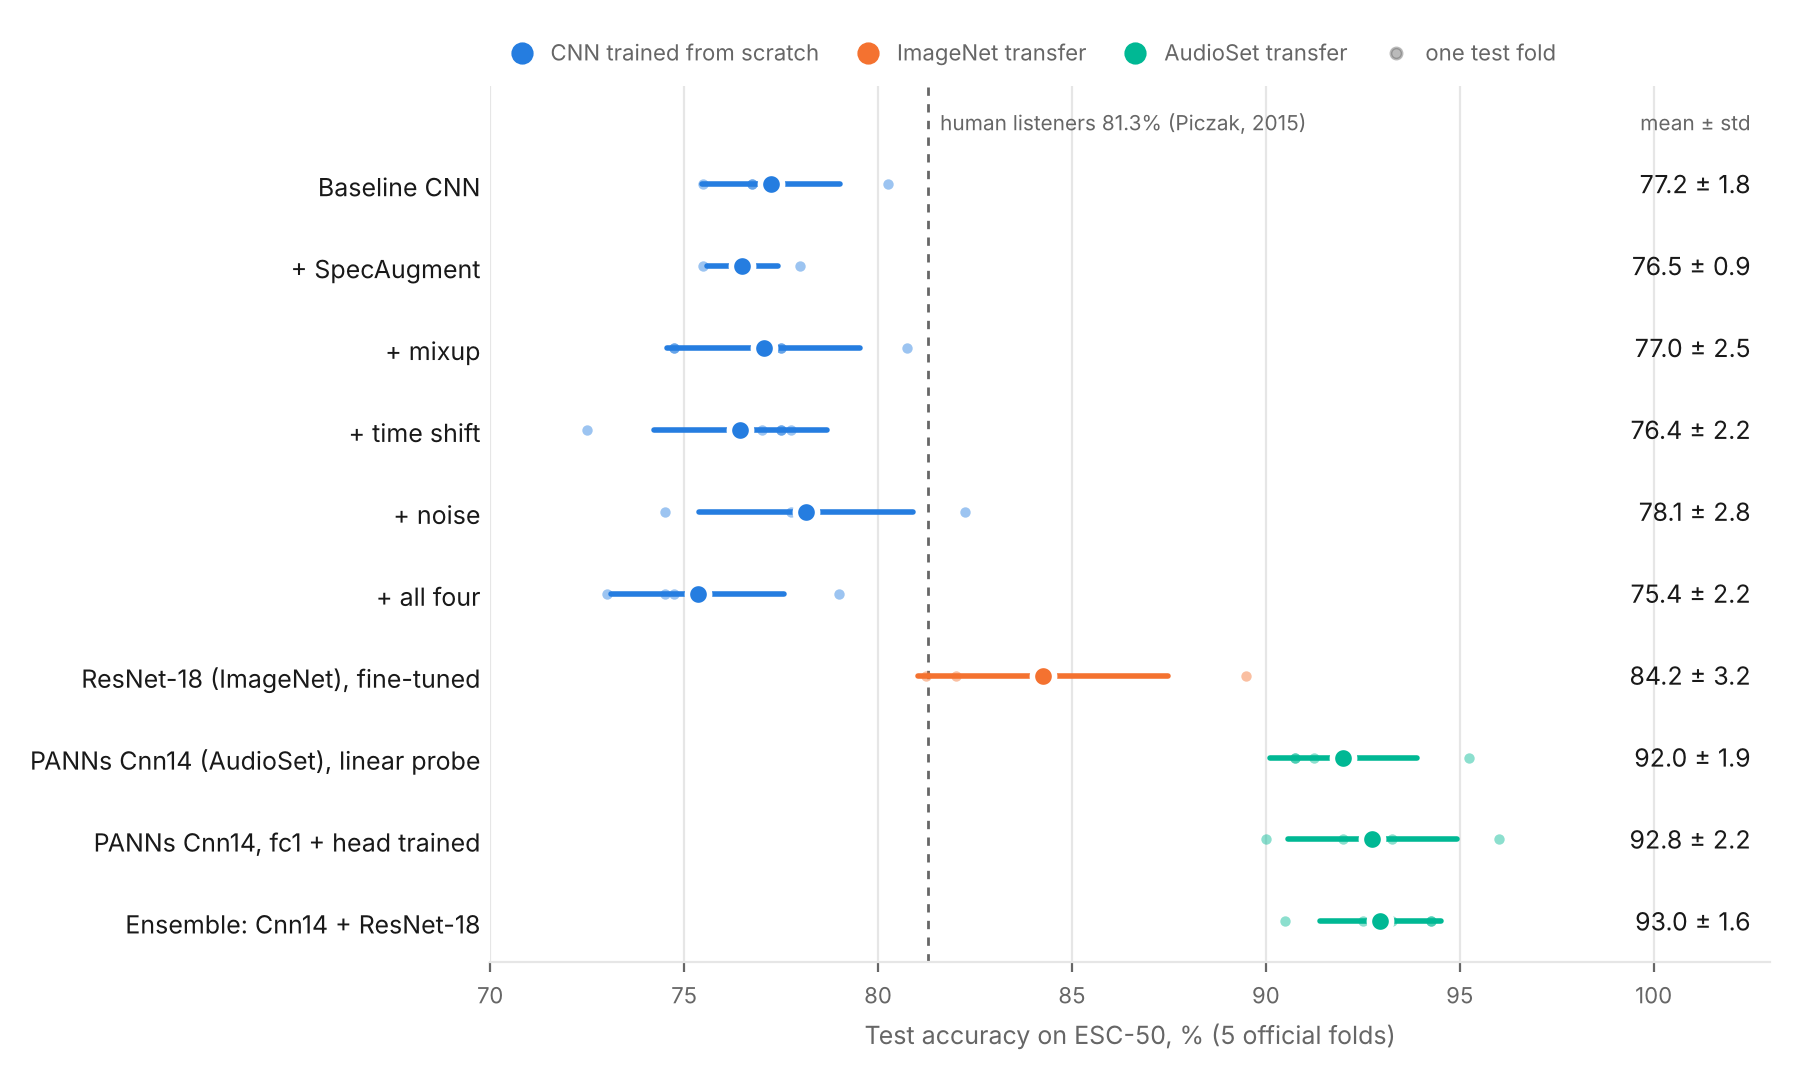
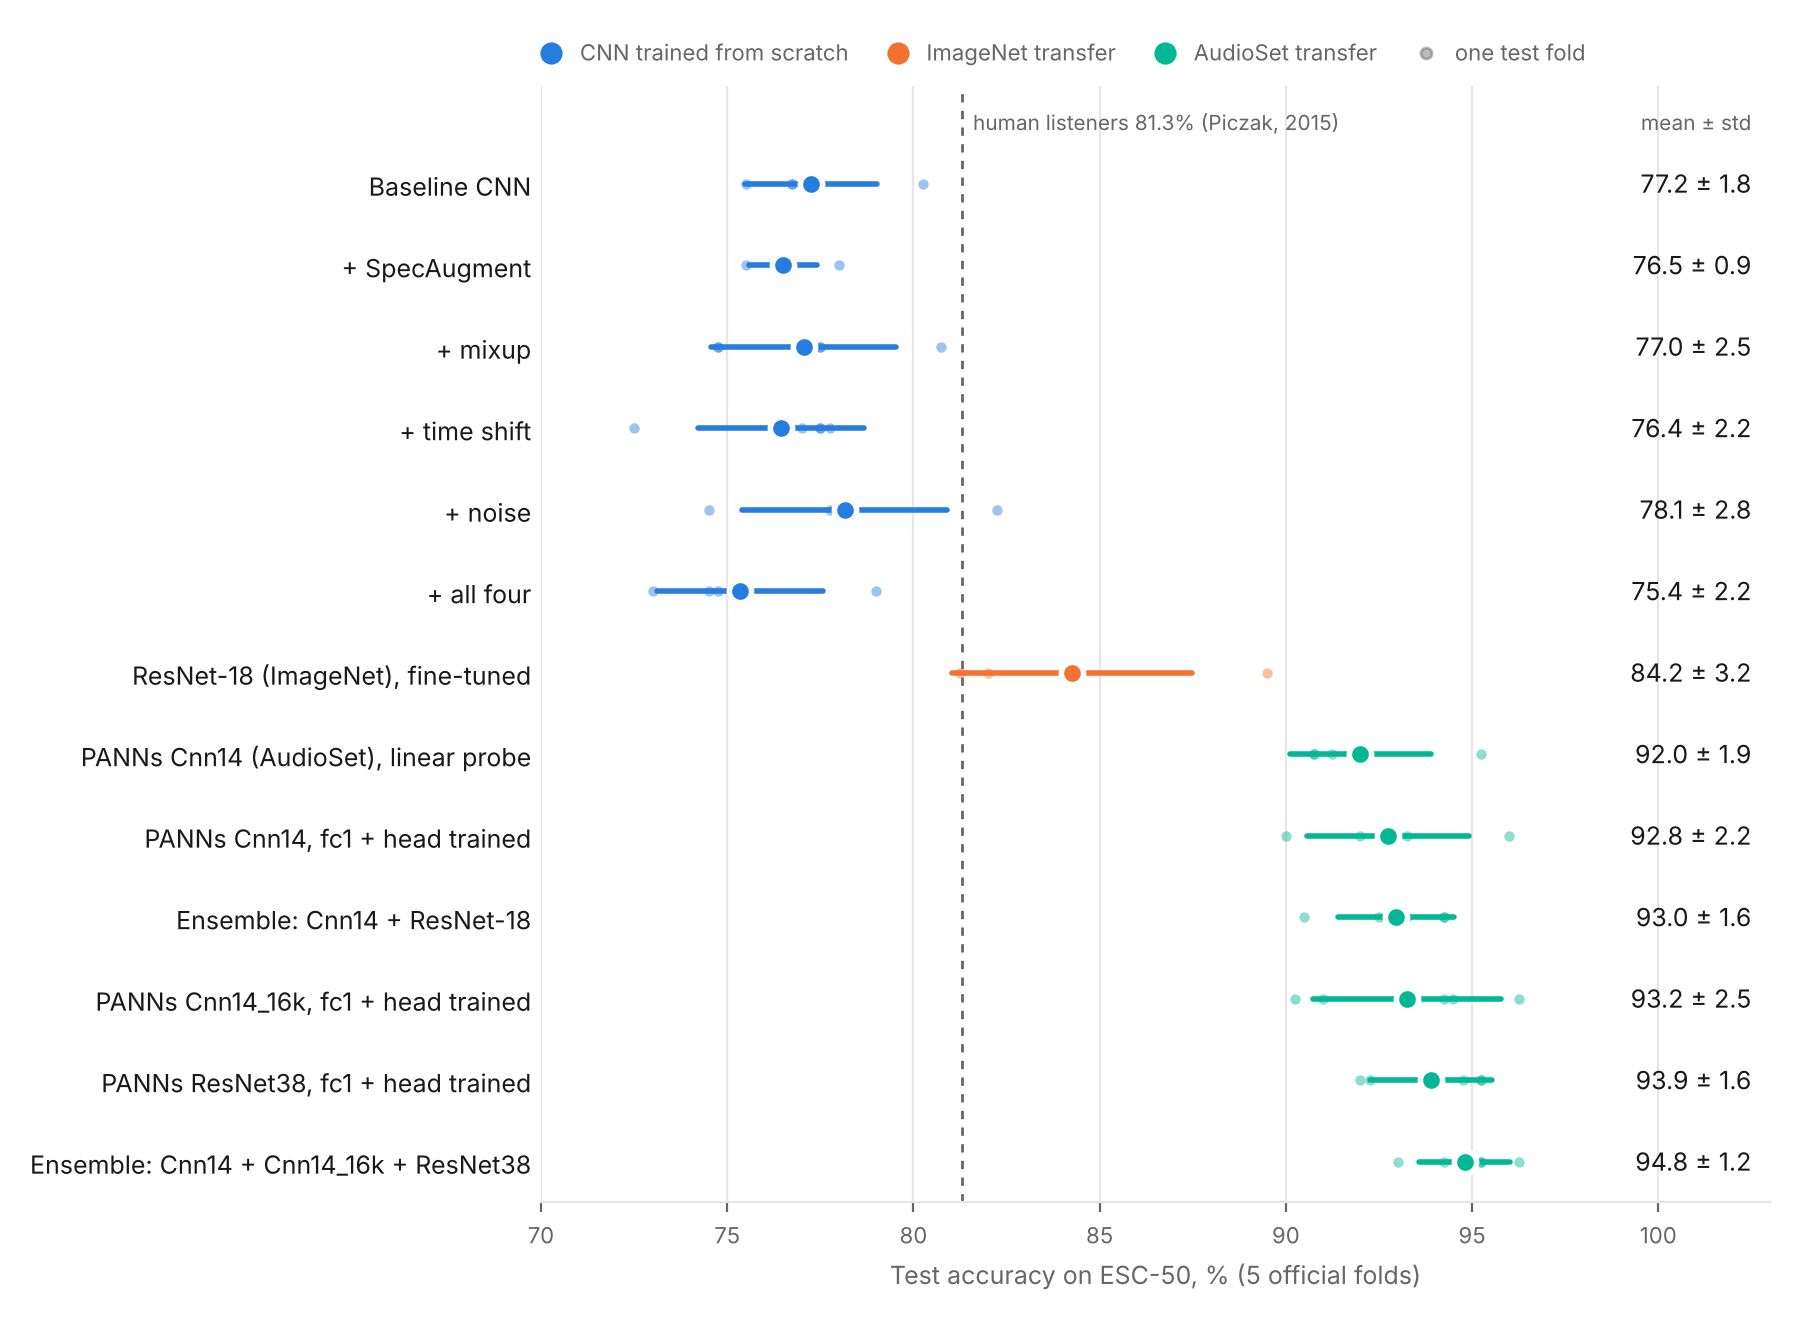
docs: README, chart, and plan updated for the three-PANNs ensemble (94.8 ± 1.2%)
Claude-Session: https://claude.ai/code/session_01RxRJWDS435URQ2yk6TRgqR

diff --git a/eval/plot_results.py b/eval/plot_results.py
@@ -30,6 +30,9 @@ LABELS = {
     "transfer-panns-cnn14-frozen-v1": "PANNs Cnn14 (AudioSet), linear probe",
     "transfer-panns-cnn14-fc1-v1": "PANNs Cnn14, fc1 + head trained",
     "ensemble-cnn14fc1-resnet18-v1": "Ensemble: Cnn14 + ResNet-18",
+    "transfer-panns-cnn14-16k-fc1-v1": "PANNs Cnn14_16k, fc1 + head trained",
+    "transfer-panns-resnet38-fc1-v1": "PANNs ResNet38, fc1 + head trained",
+    "ensemble-panns3-v1": "Ensemble: Cnn14 + Cnn14_16k + ResNet38",
 }
 GROUPS = [  # (title, run-id prefix test, color) in fixed categorical order
     ("CNN trained from scratch", lambda r: r.startswith(("baseline", "augment")), "#257de0"),

diff --git a/README.md b/README.md
@@ -2,7 +2,7 @@
 
 **Hear it, see it, classify it.** Environmental sound classification on log-mel spectrograms, with a Streamlit demo that shows *why* the model decided.
 
-![ESC-50 5-fold accuracy 93.0%](https://img.shields.io/badge/ESC--50%205--fold-93.0%25-00b894)
+![ESC-50 5-fold accuracy 94.8%](https://img.shields.io/badge/ESC--50%205--fold-94.8%25-00b894)
 ![Python](https://img.shields.io/badge/python-3.10%2B-257de0)
 ![PyTorch and torchaudio](https://img.shields.io/badge/PyTorch-torchaudio-ee4c2c)
 ![Streamlit demo](https://img.shields.io/badge/demo-Streamlit-ff4b4b)
@@ -17,7 +17,7 @@
 | | |
 | --- | --- |
 | **Task** | 50-class environmental sound classification on [ESC-50](https://github.com/karolpiczak/ESC-50) (2,000 five-second clips) |
-| **Best result** | **93.0 ± 1.6%** accuracy for the Cnn14 + ResNet-18 ensemble, **92.8 ± 2.2%** for Cnn14 alone |
+| **Best result** | **94.8 ± 1.2%** accuracy for an ensemble of three frozen PANNs trunks (Cnn14, Cnn14_16k, ResNet38), **93.9 ± 1.6%** for ResNet38 alone |
 | **Protocol** | ESC-50's official 5-fold cross-validation; mean ± sample std over the five held-out test folds |
 | **Demo** | upload or record audio → waveform, spectrogram, Grad-CAM, top-k classes |
 | **Hardware** | 4 CPU cores, no GPU |
@@ -26,9 +26,9 @@
 
 ![AudioScope pipeline](docs/pipeline.svg)
 
-1. **Load and resample** the clip to the model's sample rate (22.05 kHz for the CNNs, 32 kHz for Cnn14).
+1. **Load and resample** the clip to the model's sample rate (22.05 kHz for the CNNs, 32 kHz for Cnn14 and ResNet38, 16 kHz for Cnn14_16k).
 2. **Log-mel spectrogram**: STFT → 64-band mel filterbank → log. It matches librosa to within 2e-4 ([notebook](notebooks/02_feature_check.ipynb)).
-3. **Classify** the spectrogram as an image with a small CNN, an ImageNet ResNet-18, or PANNs Cnn14 pretrained on AudioSet.
+3. **Classify** the spectrogram as an image with a small CNN, an ImageNet ResNet-18, or a PANNs network (Cnn14, Cnn14_16k, ResNet38) pretrained on AudioSet.
 4. **Explain** the prediction with Grad-CAM over time and frequency.
 
 ## Results
@@ -40,6 +40,9 @@ Every number here is read from a committed `metrics.json` (click a run name), wr
 <!-- results-table:start -->
 | Run (links to metrics.json) | Model | Accuracy % | Per-fold accuracy % (folds 1–5) | Macro F1 % | Git |
 | --- | --- | --- | --- | --- | --- |
+| [`ensemble-panns3-v1`](eval/runs/ensemble-panns3-v1/metrics.json) | ensemble(panns_cnn14, panns_cnn14, panns_resnet38) | **94.8** ± 1.2 | 95.25 · 95.25 · 94.25 · 96.25 · 93 | 94.7 ± 1.2 | `ba85896` |
+| [`transfer-panns-resnet38-fc1-v1`](eval/runs/transfer-panns-resnet38-fc1-v1/metrics.json) | panns_resnet38 | **93.9** ± 1.6 | 95.25 · 95.25 · 92 · 94.75 · 92.25 | 93.7 ± 1.7 | `975ac74` |
+| [`transfer-panns-cnn14-16k-fc1-v1`](eval/runs/transfer-panns-cnn14-16k-fc1-v1/metrics.json) | panns_cnn14 | **93.2** ± 2.5 | 94.25 · 96.25 · 91 · 94.5 · 90.25 | 93.1 ± 2.5 | `975ac74` |
 | [`ensemble-cnn14fc1-resnet18-v1`](eval/runs/ensemble-cnn14fc1-resnet18-v1/metrics.json) | ensemble(panns_cnn14, resnet) | **93.0** ± 1.6 | 93.25 · 94.25 · 92.5 · 94.25 · 90.5 | 92.7 ± 1.6 | `a56edd9` |
 | [`transfer-panns-cnn14-fc1-v1`](eval/runs/transfer-panns-cnn14-fc1-v1/metrics.json) | panns_cnn14 | **92.8** ± 2.2 | 93.25 · 92.5 · 92 · 96 · 90 | 92.6 ± 2.3 | `a56edd9` |
 | [`transfer-panns-cnn14-frozen-v1`](eval/runs/transfer-panns-cnn14-frozen-v1/metrics.json) | panns_cnn14 | **92.0** ± 1.9 | 92 · 91.25 · 90.75 · 95.25 · 90.75 | 91.8 ± 2.0 | `c2a0e05` |
@@ -57,7 +60,8 @@ Every number here is read from a committed `metrics.json` (click a run name), wr
 - **Pretraining matters most.** Cnn14, pretrained on AudioSet, beats the from-scratch CNN by about 15 points on every fold, even though only its last layers were trained. ResNet-18, pretrained on ImageNet, lands in between at 84.2%.
 - **Augmentation barely moved the small CNN.** SpecAugment, mixup, time shift, and noise each stayed within about a point of the baseline. Noise did best: +0.9 points on average, and better on 4 of 5 folds. Stacking all four was worse than the baseline on four folds and tied on the fifth.
 - **The gains on top of Cnn14 are small.** Training `fc1` together with the head added 0.75 points, and averaging with ResNet-18 added another 0.2. Both gains are smaller than the spread between folds.
-- **The hardest classes** were helicopter, washing machine, airplane, and water drops. Each run directory has its confusion matrix next to `metrics.json` ([best run](eval/runs/ensemble-cnn14fc1-resnet18-v1/confusion_matrix.png)).
+- **A better trunk, then more trunks.** The same `fc1` probe on PANNs ResNet38 reached 93.9%, and on Cnn14_16k 93.2%. Averaging the three PANNs probes gave 94.8 ± 1.2%: the best mean, the smallest fold spread of any transfer run, and better than Cnn14 alone on every fold.
+- **The hardest classes** for the best run were helicopter (70%), wind and airplane (77.5% each), and mouse click (85%). Each run directory has its confusion matrix next to `metrics.json` ([best run](eval/runs/ensemble-panns3-v1/confusion_matrix.png)).
 
 For reference, Piczak (2015) reports 81.3% for crowdsourced human listeners (a rough estimate) and 44.3% for the best classical baseline (a random forest on MFCC + ZCR) on the same folds. All model choices above were made on validation splits taken from the training folds; each test fold was scored once.
 
@@ -68,7 +72,8 @@ For reference, Piczak (2015) reports 81.3% for crowdsourced human listeners (a r
 - **Augmentation runs**: the baseline config with one training-time augmentation turned on and nothing else changed. Augmentation strengths were set once and not tuned.
 - **ResNet-18**: torchvision `IMAGENET1K_V1`. The spectrogram is repeated to 3 channels and resized to 224 × 224. The backbone stays frozen for the first 3 of 30 epochs, then the whole network is fine-tuned at learning rate 3e-4 with SpecAugment.
 - **PANNs Cnn14** (Kong et al., 2020; `Cnn14_mAP=0.431.pth`): the frozen trunk runs once per clip with its own 32 kHz front end. The linear probe trains a new 2048 → 50 head. The `fc1` variant also trains `fc1`, at 0.1× the learning rate; it was chosen over augmented trunk passes and feature-space mixup by validation accuracy. Full fine-tuning needs a GPU and was not run. Overlap between AudioSet and ESC-50 recordings was not checked.
-- **Ensemble**: averages the class probabilities of the two runs, with weights chosen per fold on the validation split. Cnn14 got between 0.4 and 1.0 of the weight.
+- **PANNs Cnn14_16k and ResNet38** (`Cnn14_16k_mAP=0.438.pth`, `ResNet38_mAP=0.434.pth`, same Zenodo record): the `fc1` probe recipe above, unchanged. Cnn14_16k uses its own 16 kHz front end (n_fft 512, hop 160, 50 Hz–8 kHz); ResNet38 shares Cnn14's 32 kHz front end.
+- **Ensembles**: average the class probabilities of the member runs, with weights chosen per fold on the validation split (grid step 0.1). In the Cnn14 + ResNet-18 ensemble, Cnn14 got between 0.4 and 1.0 of the weight; in the three-PANNs ensemble every member got some weight on at least one fold.
 
 </details>
 
@@ -83,7 +88,7 @@ For reference, Piczak (2015) reports 81.3% for crowdsourced human listeners (a r
 ```bash
 pip install -e ".[app,dev]"
 python -m audioscope.data.download --dataset esc50 --dest data/esc50
-python -m audioscope.data.download --weights resnet18 cnn14        # for the transfer configs
+python -m audioscope.data.download --weights resnet18 cnn14 cnn14_16k resnet38   # for the transfer configs
 
 python eval/crossval.py --config configs/transfer-panns-cnn14-fc1.yaml --out eval/runs/my-run
 streamlit run app/streamlit_app.py
@@ -94,7 +99,7 @@ For each of the five folds, `eval/crossval.py` trains on the other four, picks t
 ## Project structure
 
 ```text
-src/audioscope/   library: data (folds, cache), features (log-mel, MFCC), models (CNN, ResNet, Cnn14, Grad-CAM), train, eval
+src/audioscope/   library: data (folds, cache), features (log-mel, MFCC), models (CNN, ResNet, PANNs Cnn14/ResNet38, Grad-CAM), train, eval
 eval/             crossval.py, ensemble.py, results_table.py, plot_results.py, make_process_gif.py, feature_check.py
 eval/runs/        one directory per run (checkpoints not committed)
 configs/          one YAML per experiment
@@ -107,7 +112,7 @@ The full plan, protocol, and evaluation rules are in [PLAN.md](PLAN.md).
 
 ## Not done yet
 
-- Full fine-tuning of Cnn14, which needs a GPU.
+- Full fine-tuning of the PANNs networks, which needs a GPU.
 - UrbanSound8K: the loader and config exist, but no run was made, so no number is reported.
 - Published ESC-50 numbers for PANNs and AST are not quoted, because the papers could not be checked from the environment the runs were made in.
 
@@ -118,4 +123,4 @@ The full plan, protocol, and evaluation rules are in [PLAN.md](PLAN.md).
 
 ## License
 
-Code: [MIT](LICENSE). The audio is not redistributed here; ESC-50 is CC BY-NC. Pretrained weights keep their own licenses: torchvision ResNet-18 (BSD-3-Clause) and PANNs Cnn14 (CC BY 4.0, Zenodo record 3987831).
+Code: [MIT](LICENSE). The audio is not redistributed here; ESC-50 is CC BY-NC. Pretrained weights keep their own licenses: torchvision ResNet-18 (BSD-3-Clause) and PANNs Cnn14, Cnn14_16k, ResNet38 (CC BY 4.0, Zenodo record 3987831).

diff --git a/PLAN.md b/PLAN.md
@@ -274,6 +274,7 @@ Checked tasks are done in the repository. A phase is finished when its tasks are
 - [x] ImageNet ResNet on three-channel log-mel inputs, with a recorded freeze schedule.
 - [x] One pretrained audio model (PANNs or AST), input pipeline matched to that checkpoint. PANNs Cnn14 was run as a frozen feature extractor with a linear head (`configs/transfer-panns-cnn14-frozen.yaml`); full fine-tuning (`configs/transfer-panns-cnn14.yaml`) needs a GPU and was not run.
 - [x] Five-fold runs for both, archived like the baseline.
+- [x] Follow-up: the same `fc1` probe on two more PANNs checkpoints (Cnn14_16k, ResNet38) and a validation-weighted ensemble of the three (`eval/runs/ensemble-panns3-v1`, 94.8 ± 1.2%).
 - [x] Write the comparison, citing external numbers from their papers. The comparison between AudioScope runs is in the README; published PANNs/AST ESC-50 numbers were not quoted because the papers could not be checked from the run environment.
 
 ### Phase 6 — Streamlit demo
